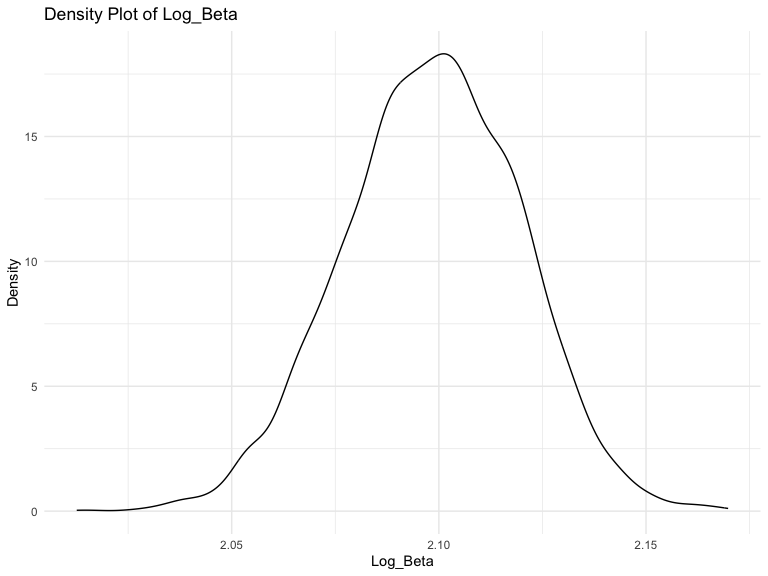
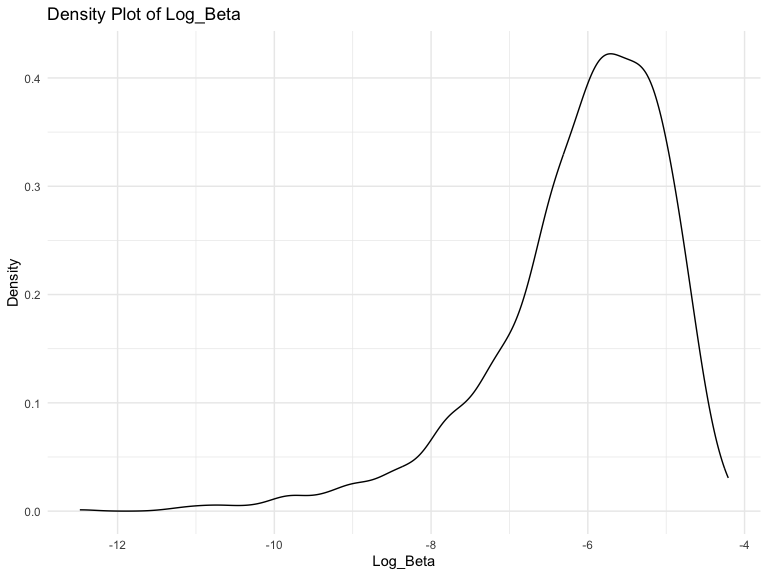
Problem 2: fix log(beta1*beta2)

diff --git a/p8105_hw6_tw2918.md b/p8105_hw6_tw2918.md
@@ -204,7 +204,7 @@ weather_df =
 
     ## using cached file: /Users/tianyiwang/Library/Caches/org.R-project.R/R/rnoaa/noaa_ghcnd/USW00094728.dly
 
-    ## date created (size, mb): 2023-09-28 07:19:06.75893 (8.524)
+    ## date created (size, mb): 2023-09-28 10:19:06.75893 (8.524)
 
     ## file min/max dates: 1869-01-01 / 2023-09-30
 
@@ -239,9 +239,9 @@ boot_result =
     values_from = "estimate" 
   )|>
   janitor:: clean_names()|>
-  #questions, log(b0*b1) or log(b1*b2)
+  # log(b1*b2)
   mutate(
-    log_beta= log(intercept*tmin)
+    log_beta= log(tmin*prcp)
   )|>
   select(strap_number, r_squared, log_beta)
 
@@ -251,17 +251,20 @@ print(boot_result)
     ## # A tibble: 5,000 × 3
     ##    strap_number r_squared log_beta
     ##           <int>     <dbl>    <dbl>
-    ##  1            1     0.898     2.11
-    ##  2            2     0.928     2.10
-    ##  3            3     0.925     2.12
-    ##  4            4     0.931     2.11
-    ##  5            5     0.915     2.11
-    ##  6            6     0.918     2.08
-    ##  7            7     0.922     2.10
-    ##  8            8     0.910     2.07
-    ##  9            9     0.910     2.09
-    ## 10           10     0.939     2.10
+    ##  1            1     0.898    -5.44
+    ##  2            2     0.928   NaN   
+    ##  3            3     0.925   NaN   
+    ##  4            4     0.931   NaN   
+    ##  5            5     0.915   NaN   
+    ##  6            6     0.918    -7.18
+    ##  7            7     0.922   NaN   
+    ##  8            8     0.910    -6.65
+    ##  9            9     0.910    -6.21
+    ## 10           10     0.939   NaN   
     ## # ℹ 4,990 more rows
+
+- There are 3361 `NA` value for the log_beta, because some of the
+  `beta1*beta2` value appear to be less than 0.
 
 Plot the distribution of your estimates, and describe these in words.
 
@@ -281,6 +284,7 @@ boot_result|>
 ``` r
 # log_beta plot
 boot_result|>
+  filter(!is.na(log_beta)) |>
   ggplot(aes(x=log_beta)) +
   geom_density()+
   labs(title = "Density Plot of Log_Beta", 
@@ -293,21 +297,25 @@ boot_result|>
 
 *Comment on the Plot*
 
-- The density plot for r_squared if approximatly symmetric around the
-  peak, but there appears to be a slight skew to the right, indicating
-  that there are a number of R_Squared values higher than the mode.The
-  tails of the distribution taper off, with fewer observations having
-  very low or very high R_Squared values.
-- The density plot for log(beta0\*beta1) shows symmetry around the peak,
-  with a bell-shaped curve that is typical of a normal distribution.The
-  peak of the Log_Beta density curve is around 2.10, which is the mode
-  of this distribution.
+- The density plot for `r_squared` if approximately symmetric around the
+  peak, but there appears to be a slight left skewness, indicating that
+  there are a number of `r_squared` values lower than the mode.The tails
+  of the distribution taper off, with fewer observations having very low
+  or very high `r_squared` values.The peak of the density appears to
+  occur somewhere between `-0.91` and `-0.92` on the x-axis, suggesting
+  that this is the most common range of values for `r_squared`.
+- The density plot for `log(beta1*beta2)` appears to be left skewed with
+  a tail on the left, suggesting that the mean and median are typically
+  less than the mode. The peak of the density appears to occur somewhere
+  between `-7` and `-6` on the x-axis, suggesting that this is the most
+  common range of values for `log_beta`.
 
 Using the 5000 bootstrap estimates, identify the 2.5% and 97.5%
 quantiles to provide a 95% confidence interval for the two estimate.
 
 ``` r
 boot_result |>
+  filter(!is.na(log_beta)) |>
   pivot_longer(
     r_squared:log_beta,
     names_to = "estimate",
@@ -323,8 +331,8 @@ boot_result |>
 
 | estimate  | ci_lower | ci_upper |
 |:----------|---------:|---------:|
-| log_beta  |    2.055 |    2.067 |
-| r_squared |    0.889 |    0.897 |
+| log_beta  |   -8.982 |   -7.833 |
+| r_squared |    0.880 |    0.889 |
 
 ## Problem 3
 
